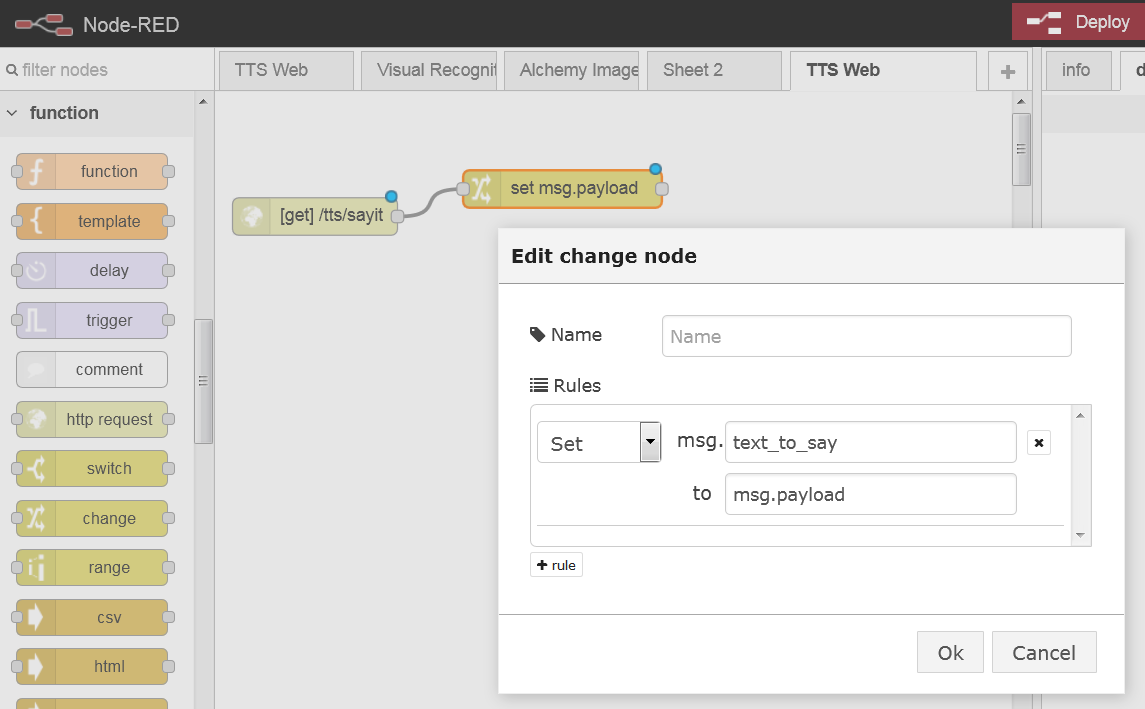
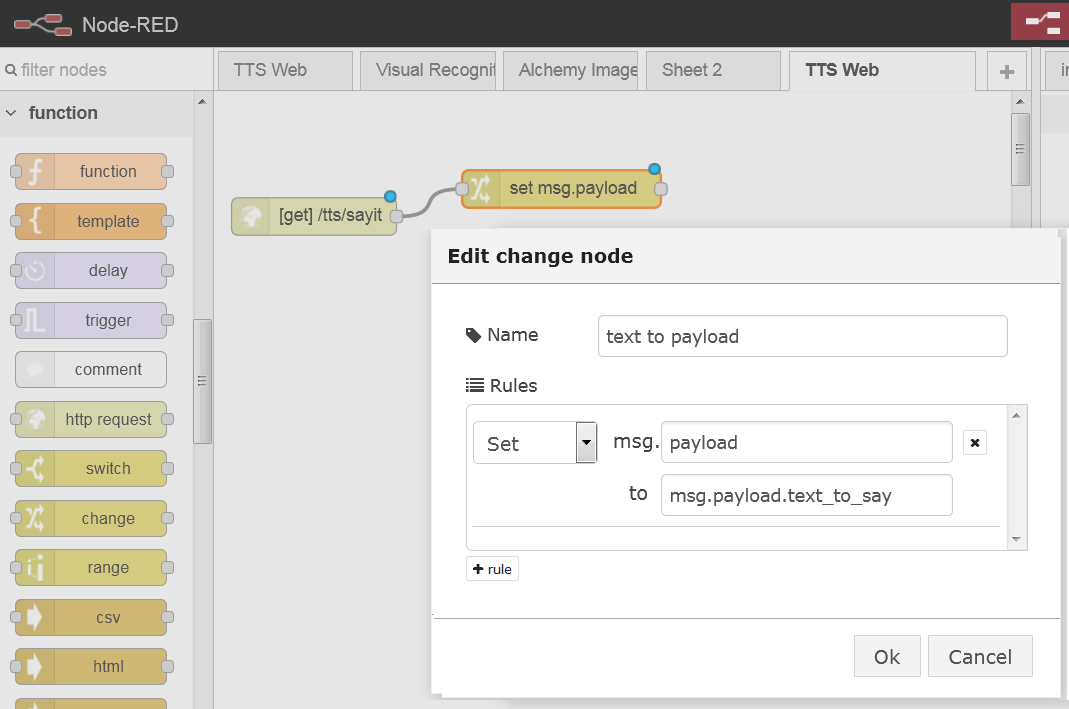
Fix Step 3

diff --git a/README.md b/README.md
@@ -66,8 +66,8 @@ The first part of the flow will take text input from a web invocation and return
 1. Create a new flow, let's call it `TTS Web` 
 2. Add an ![`HTTPInput`](images/node-red/HTTPInput.png) node to collect the incoming speech request. Set the `URL` property of this node to `/tts/sayit` This URL will be exposed below our BlueMix main URL.
 ![TTS Lab 1 ScreenShot 1](images/TTS/TTS-Lab-1.png)
-When invoked with query parameters such as `?text_to_say=Hello`, they will be added as properties on the `msg` object. 
-3. Add a ![`change`](images/node-red/change.png) node to extract the query parameter `text_to_say` and set it as the `payload`.
+When invoked with query parameters such as `?text_to_say=Hello`, they will be added as properties on the `msg.payload` object. 
+3. Add a ![`change`](images/node-red/change.png) node to extract the query parameter `msg.payload.text_to_say` and set it as the `msg.payload`.
 ![TTS Lab 1 ScreenShot 2](images/TTS/TTS-Lab-2.png)
 We do this because the TTS node uses the text in the `msg.payload` as input.
 4. Now add a ![`Watson TTS`](images/node-red/Watson-tts.png) node. This node will generate the binary `wav` stream content to the `msg.speech` property.
@@ -75,7 +75,7 @@ We do this because the TTS node uses the text in the `msg.payload` as input.
 The properties of the TTS node will let you select the Language and Voice to use.
 5. Add another ![`change`](images/node-red/change.png) node to extract the `msg.speech` and place it in `msg.payload`.
 ![TTS Lab 1 ScreenShot 4](images/TTS/TTS-Lab-4.png)
-6. Finally, add a  ![`HTTP Response`](images/node-red/HTTPResponse.png  node. This node will simply return what's in the payload to the HTTP response.
+6. Finally, add a  ![`HTTP Response`](images/node-red/HTTPResponse.png) node. This node will simply return what's in the payload to the HTTP response.
 The completed flow should look like:
 ![TTS Lab 1 ScreenShot 5](images/TTS/TTS-Lab-5.png)
 	
